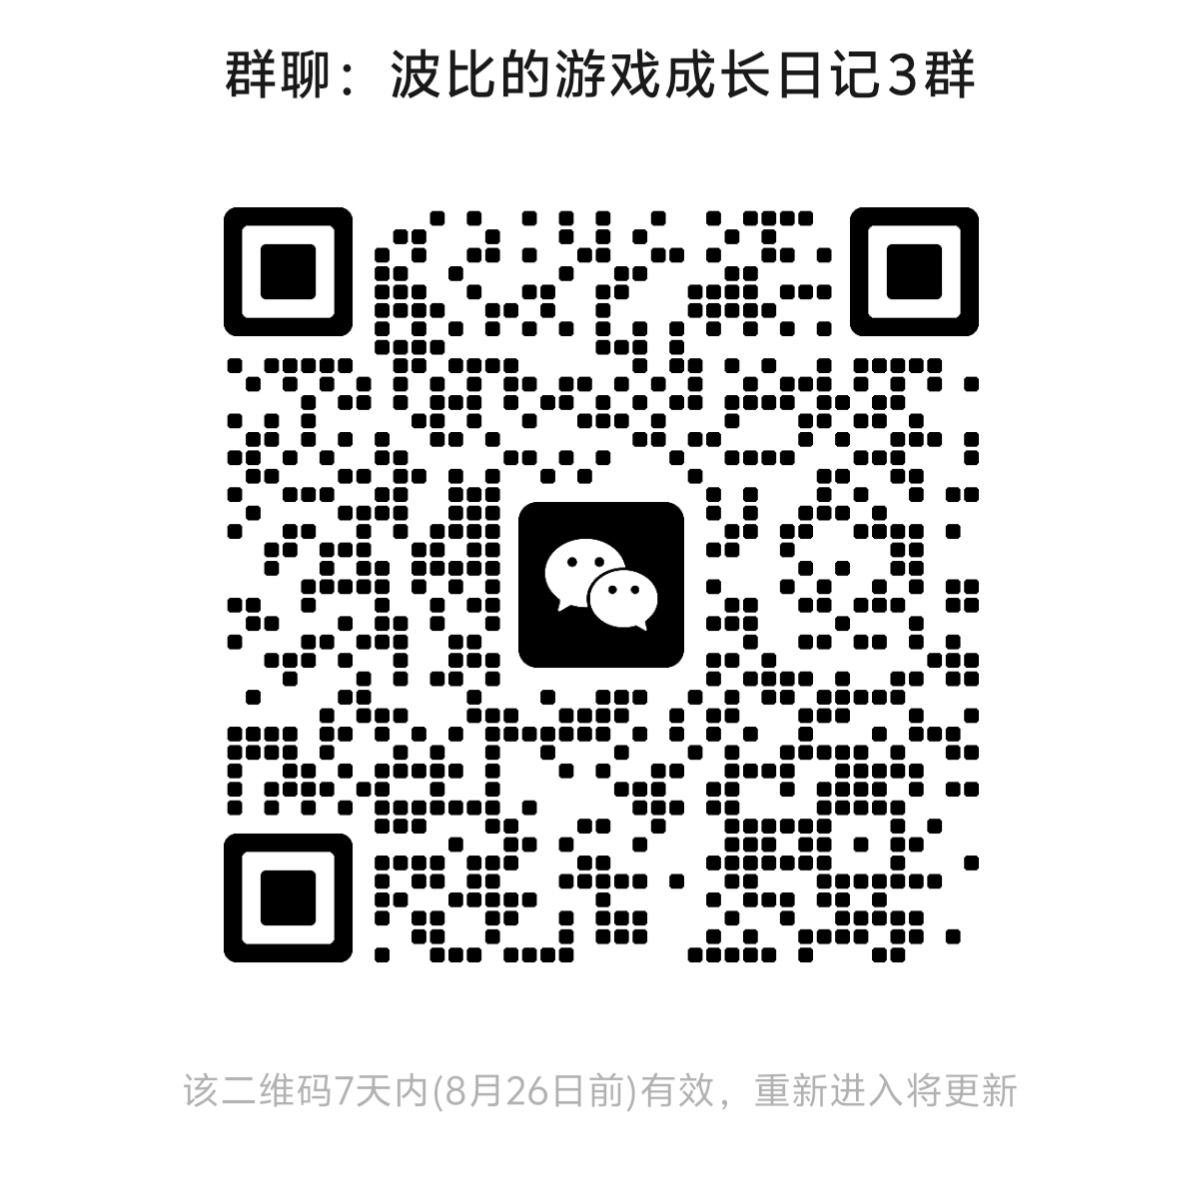
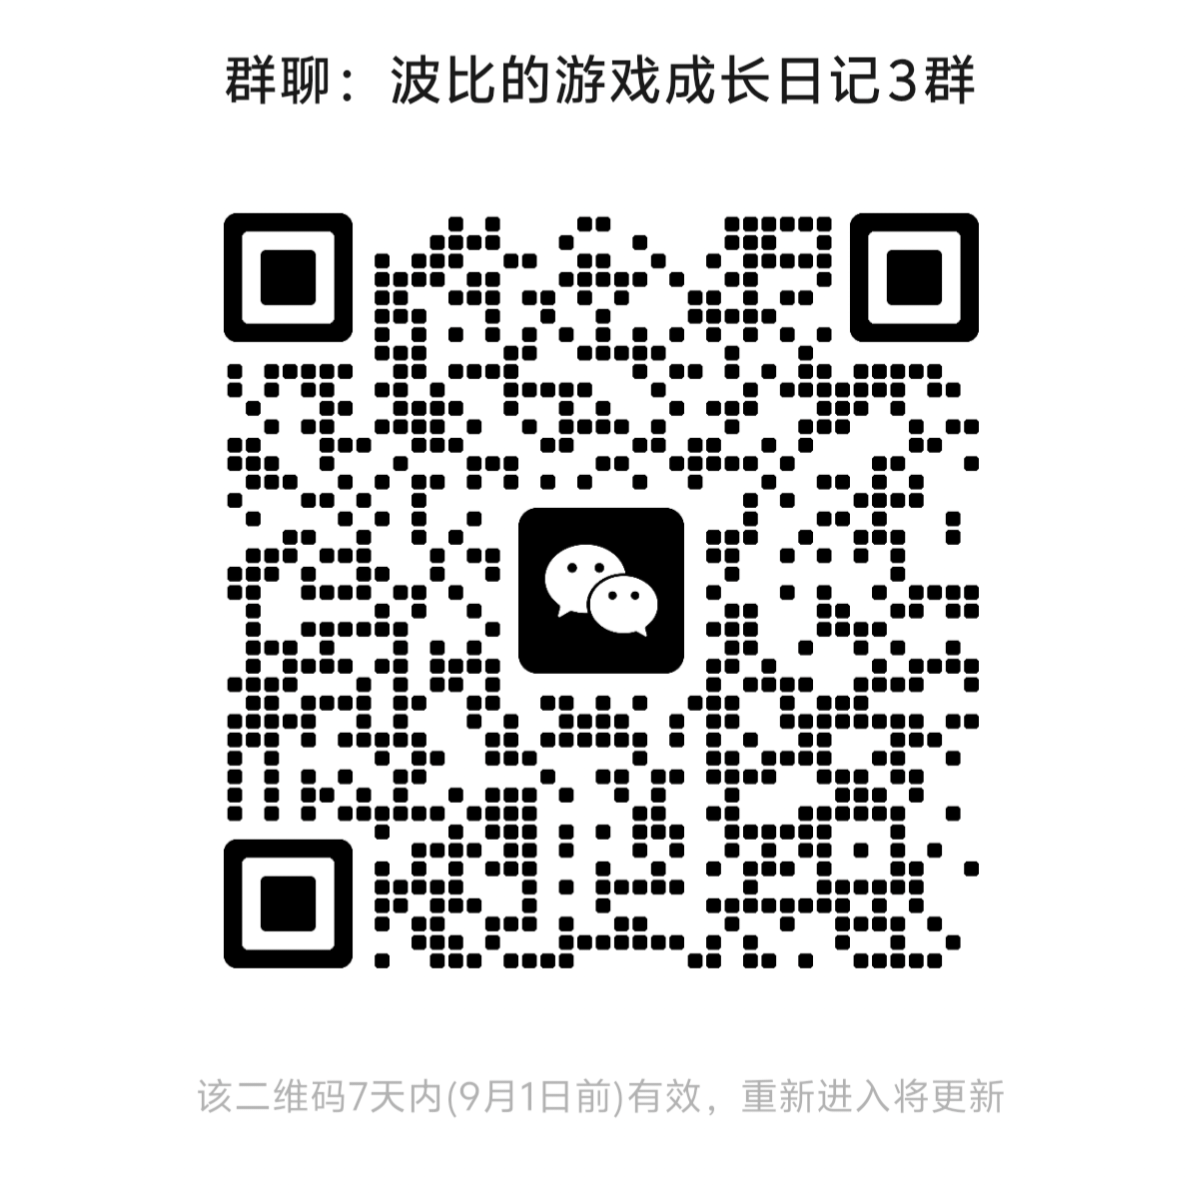
Update latest diary group QR

diff --git a/index.html b/index.html
@@ -20,9 +20,9 @@
   <h1>欢迎加入日记群</h1>
   <p class="intro">请在微信里长按识别下方二维码，即可申请加入。</p>
   <section class="card">
-    <img src="latest-qr.png?v=1" alt="日记群最新入群二维码">
+    <img src="latest-qr.png?v=2" alt="日记群最新入群二维码">
     <p class="tip">长按图片，选择“识别图中二维码”</p>
-    <p class="meta">本二维码建议在 2026 年 8 月 26 日前使用</p>
+    <p class="meta">本二维码有效期至 2026 年 9 月 1 日，请在此之前使用</p>
   </section>
   <footer>每周二维码会更新，此页面链接始终有效。</footer>
 </main></body></html>
